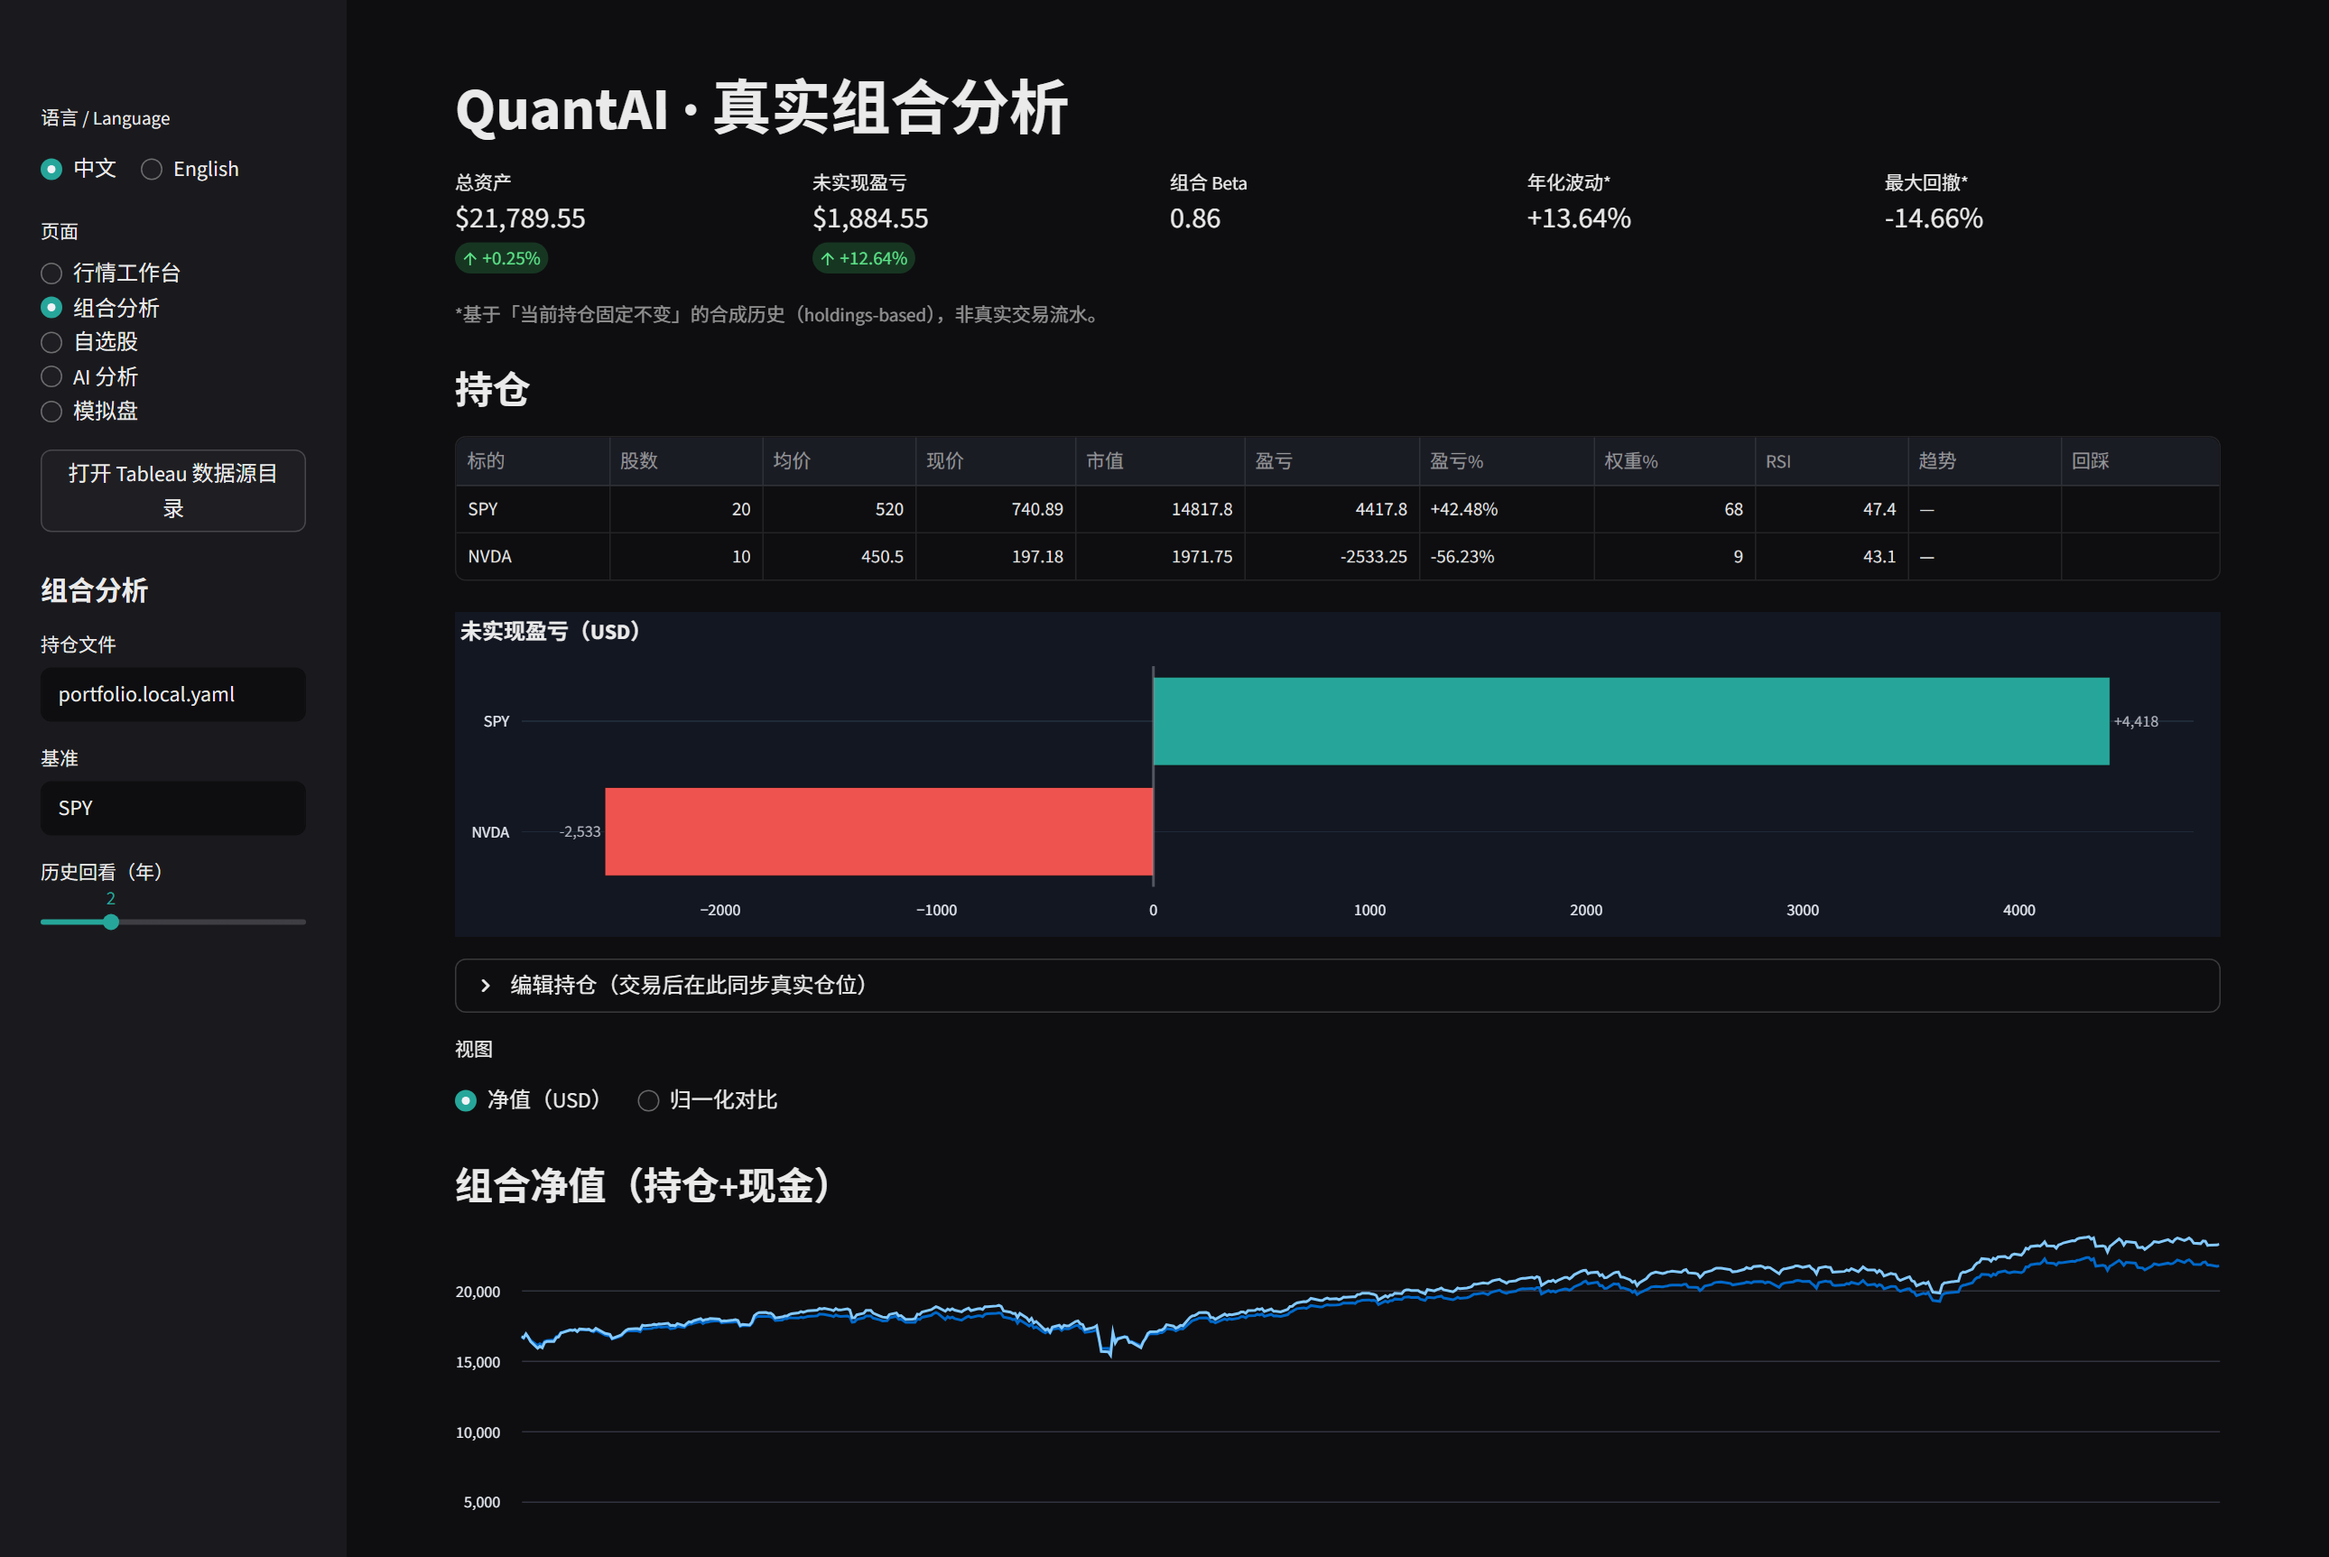
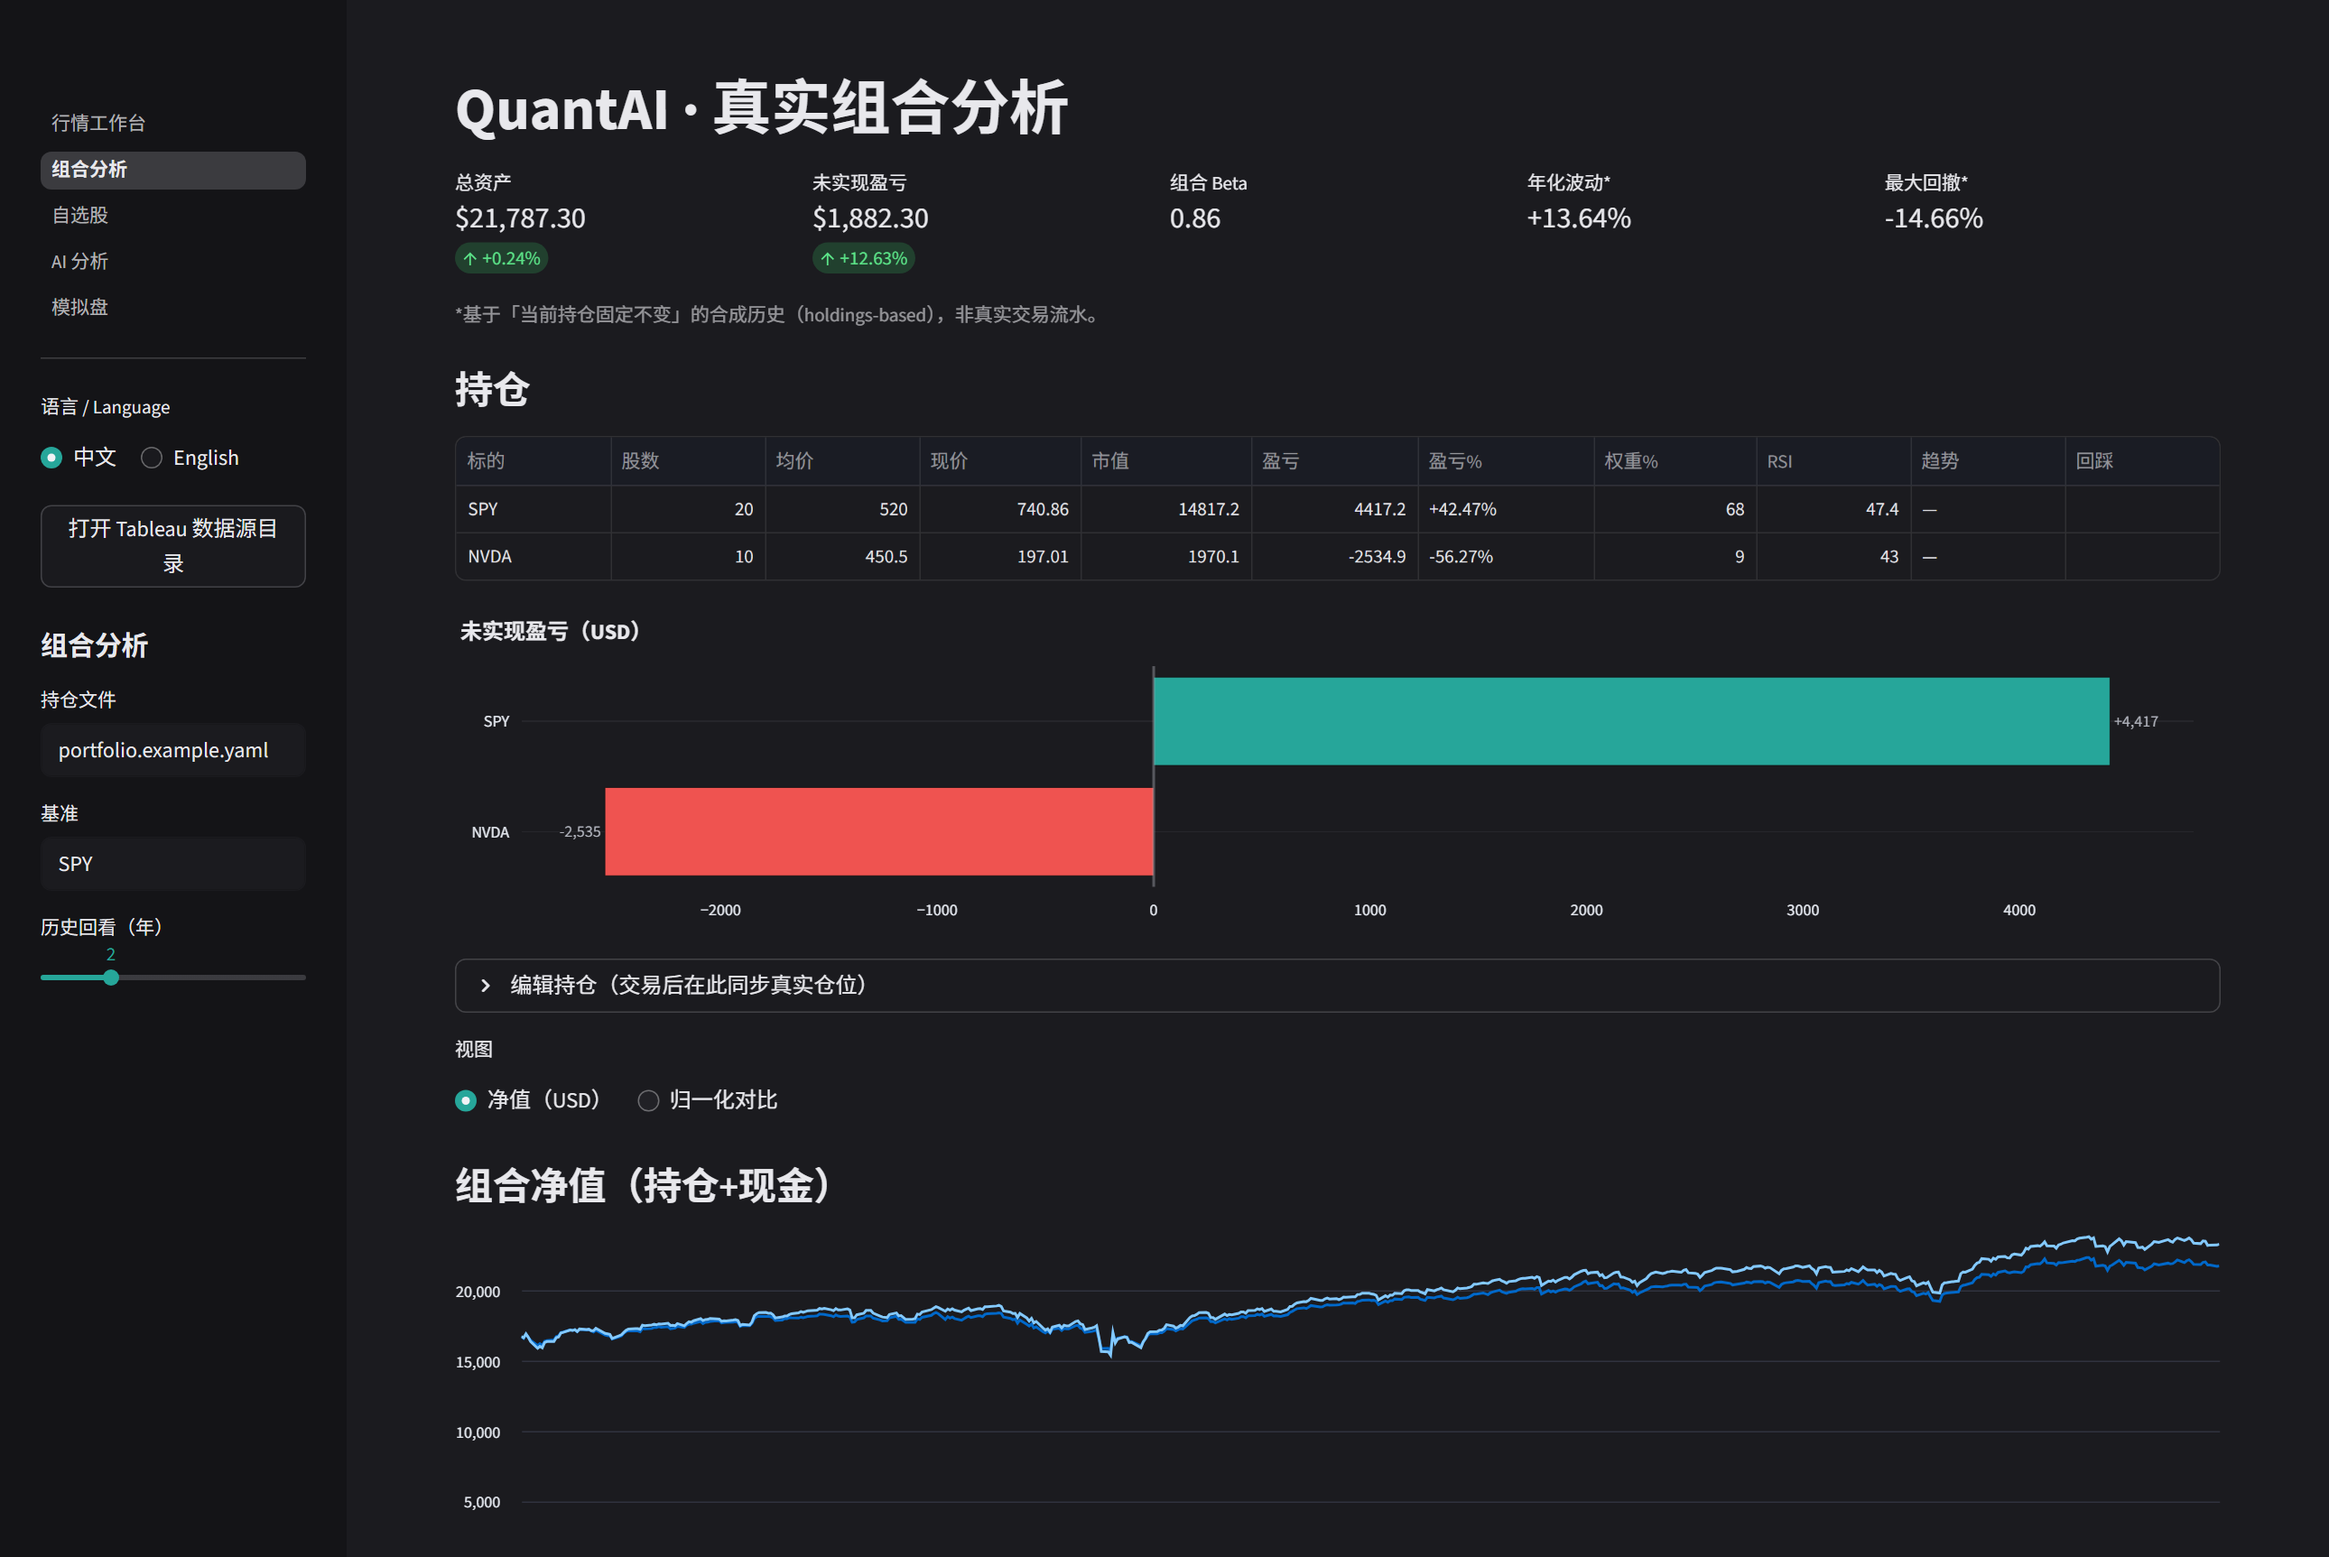
docs: note Power BI figures are my real holdings, reshoot README shots

diff --git a/README.md b/README.md
@@ -10,6 +10,8 @@ US equities (NYSE calendar), typed and tested (748 tests), honest by design.
 | ![Workstation: real-position banner, 1-minute bars, indicator toggles](docs/img/frontend_workstation.png) | ![Power BI market overview page](powerbi/img/page1_market_overview.png) |
 | ![Portfolio page: KPI row, holdings, PnL, net-worth curve](docs/img/frontend_portfolio.png) | ![Power BI signals heatmap page](powerbi/img/page2_signals.png) |
 
+*Frontend screenshots use the bundled `portfolio.example.yaml` — no real holdings shown.*
+
 → [Quick start](#quick-start) · [Two surfaces, one warehouse](#two-surfaces-one-warehouse) · [Architecture](#architecture)
 
 The codebase was rebuilt bottom-up into the typed, tested `quantai/` package;

diff --git a/powerbi/README.md b/powerbi/README.md
@@ -192,7 +192,9 @@ model, while four others worked. Diagnosis and mechanism:
   project locally.
 - The latest positions snapshot holds **one symbol (SPCX)** — the portfolio
   section is KPI cards, not weight charts; that is the data, not a rendering
-  gap.
+  gap. Position figures are the author's real (small) holding, kept as-is so
+  every reconciliation number traces to source data. No account identifiers
+  are included.
 - `fact_news.sentiment` covers **122 of 5,581 rows (2.19%)** — the coverage is
   printed on the News page as a card, and no average is presented as a
   population statement.
